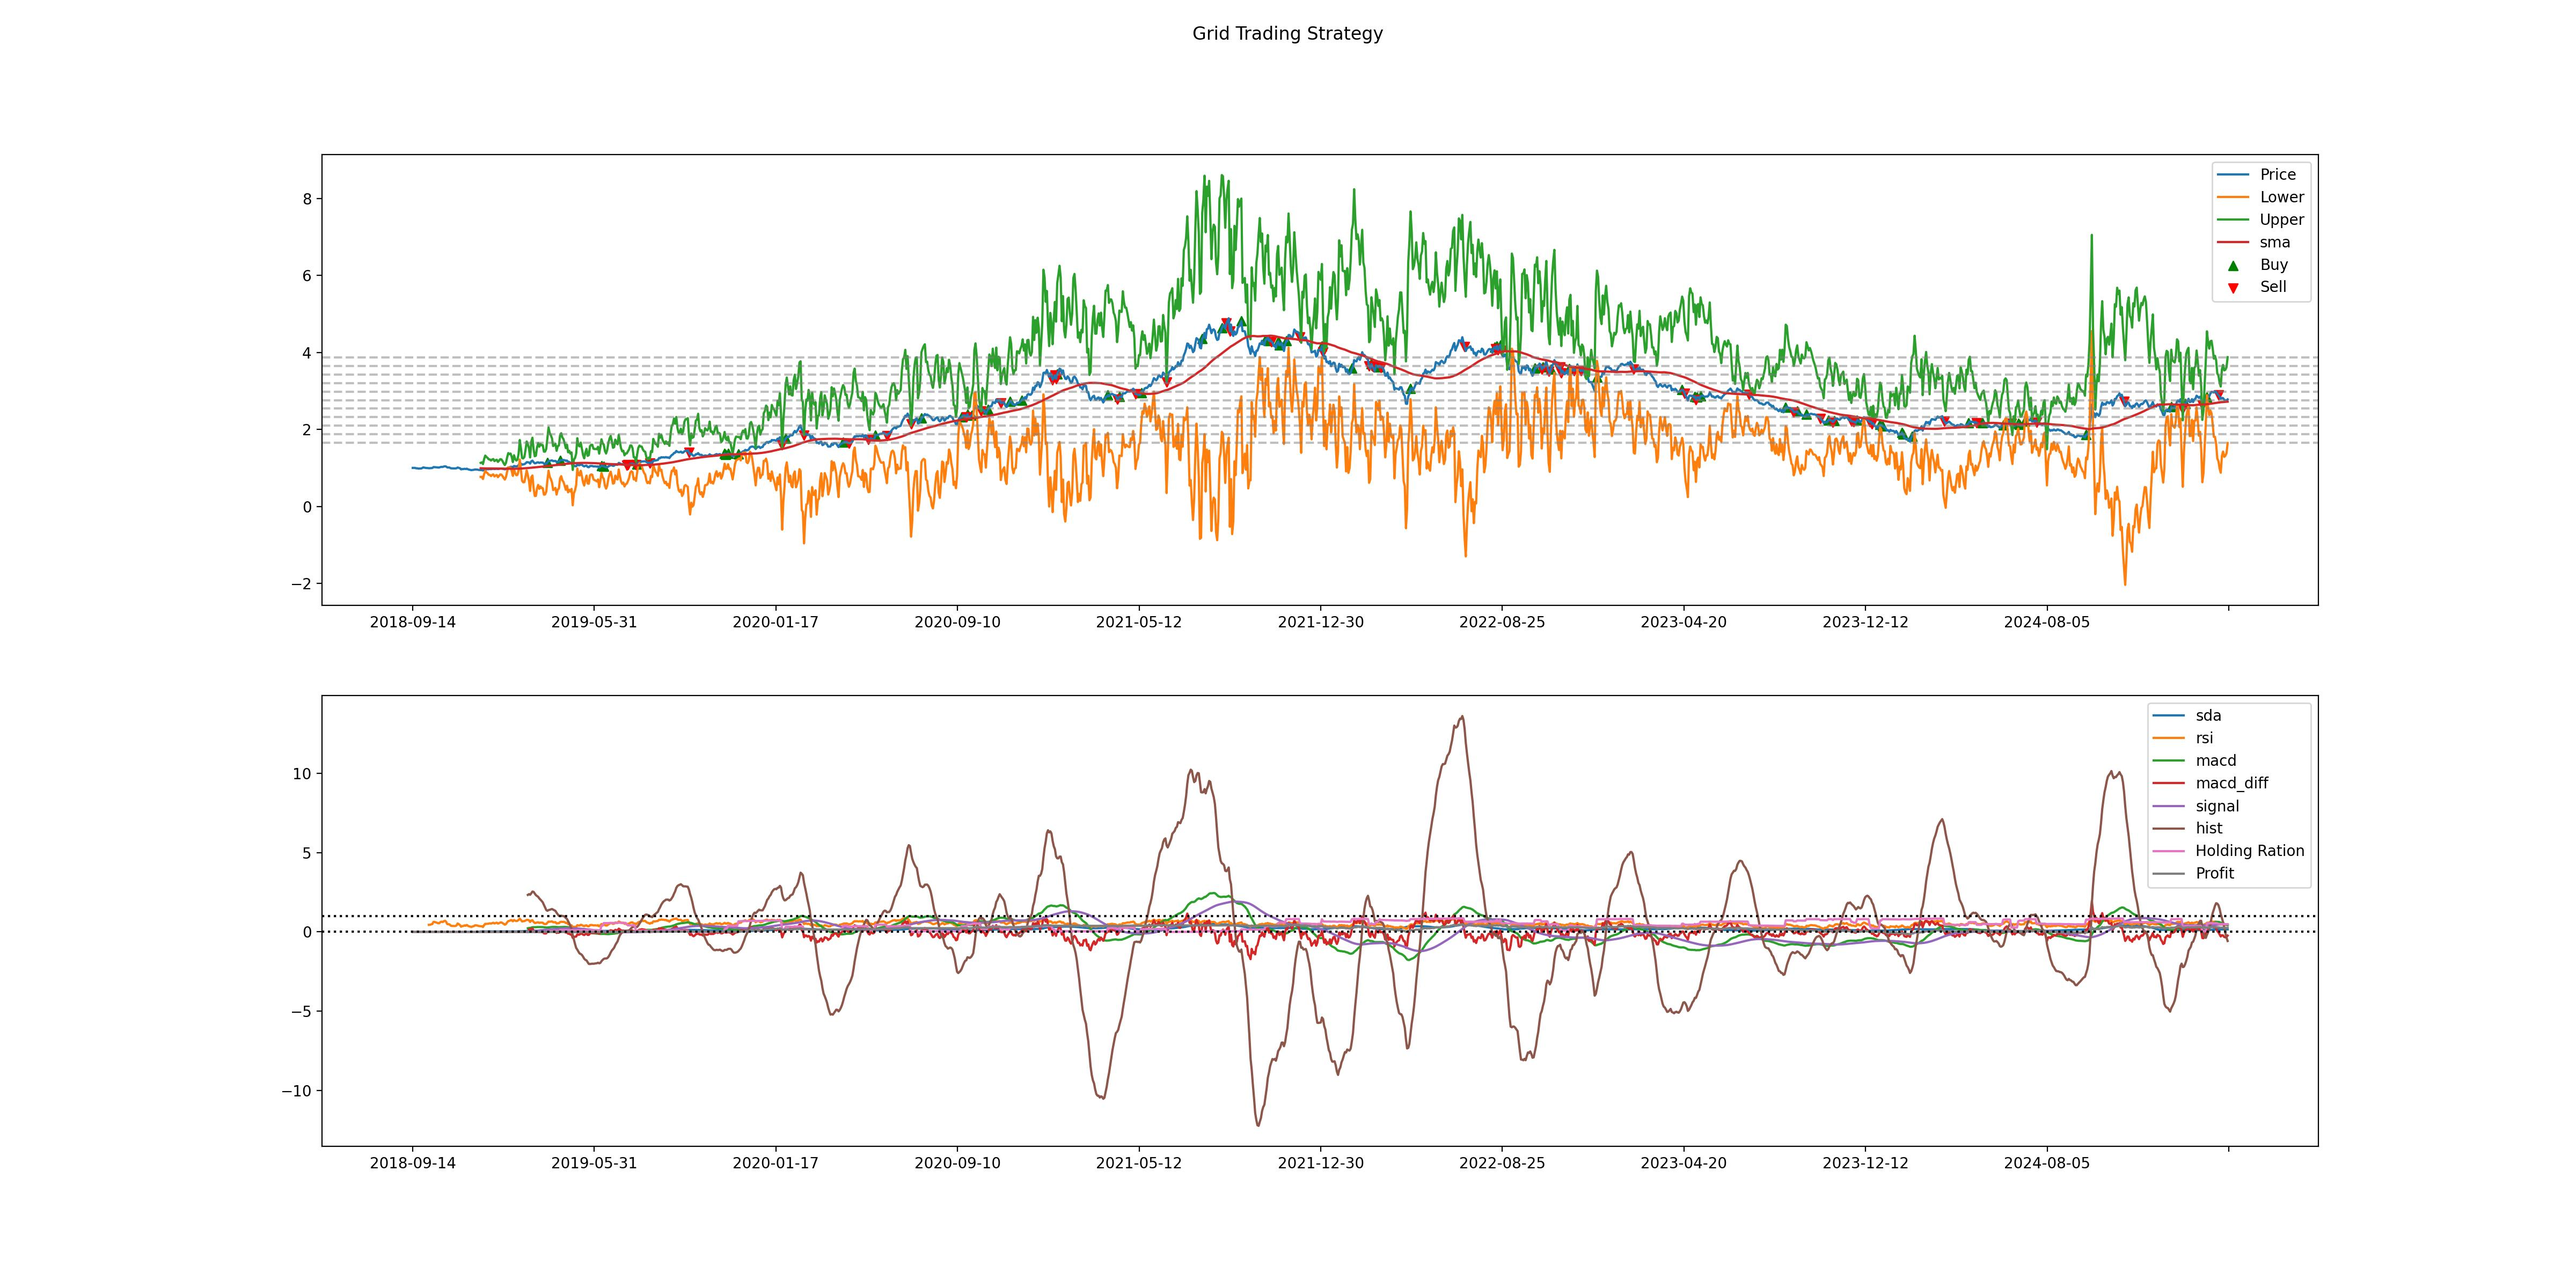
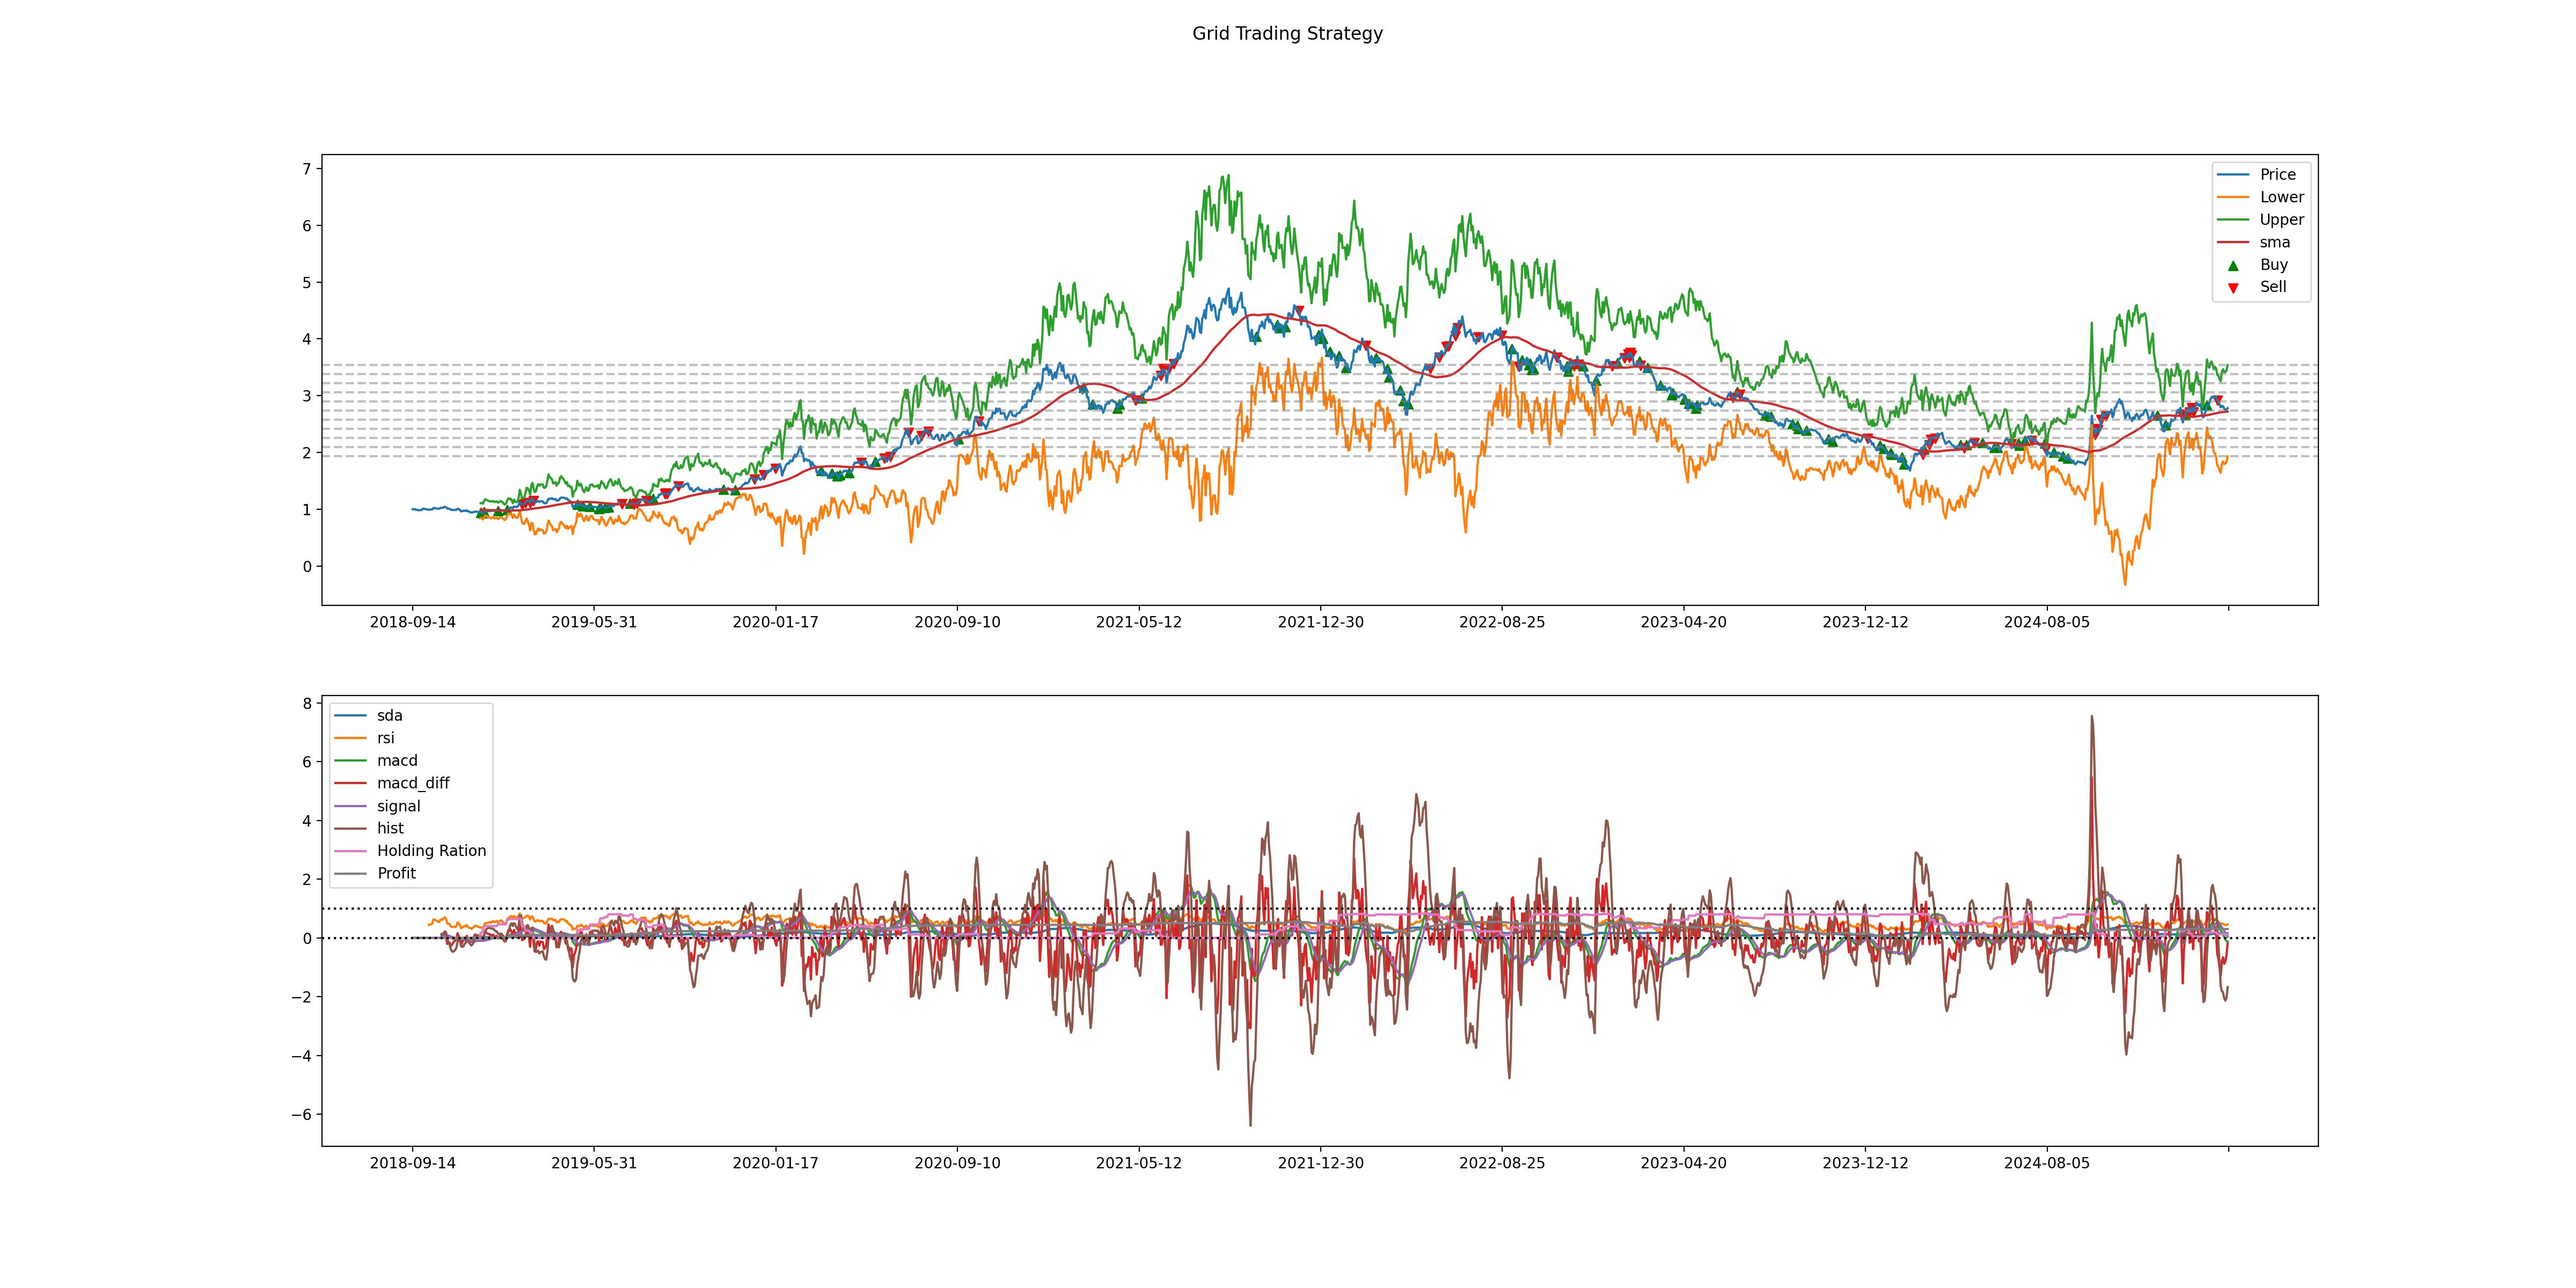
m

Changed region(s): [[0.125, 0.1562, 0.9062, 0.4375], [0.125, 0.5938, 0.875, 0.875], [0.125, 0.5312, 0.1562, 0.5938]]

diff --git a/painter4.py b/painter4.py
@@ -133,7 +133,7 @@ if __name__ == '__main__':
     # r6-fix-total_avg-slowmacd
     spara = {'max_holding_ration': 0.8, 'order_percent': 0.040980300026245815, 'num_std': 4.5989271586695075, 'sbc5': 0.49719741832318604, 'max_width': 0.1, 'min_width': 0.1, 'grid_num': 10, 'window': 60, 'fast_win': 59, 'slow_win': 35, 'sig_win': 33}
     # Trial 2135 finished with value: 2.500679601927987 and parameters: 
-    spara = {'max_holding_ration': 0.8, 'order_percent': 0.05652456325504556, 'num_std': 7.176714081586621, 'sbc5': 7.819711162106609, 'max_width': 0.1, 'min_width': 0.1, 'grid_num': 10, 'window': 60, 'fast_win': 31, 'slow_win': 53, 'sig_win': 49}
+    spara = {'max_holding_ration': 0.8, 'order_percent': 0.05652456325504556, 'num_std': 5.176714081586621, 'sbc5': 2.819711162106609, 'max_width': 0.1, 'min_width': 0.1, 'grid_num': 10, 'window': 60, 'fast_win': 10, 'slow_win': 20, 'sig_win': 7}
 
     # 执行优化
     #evalution(spara)
